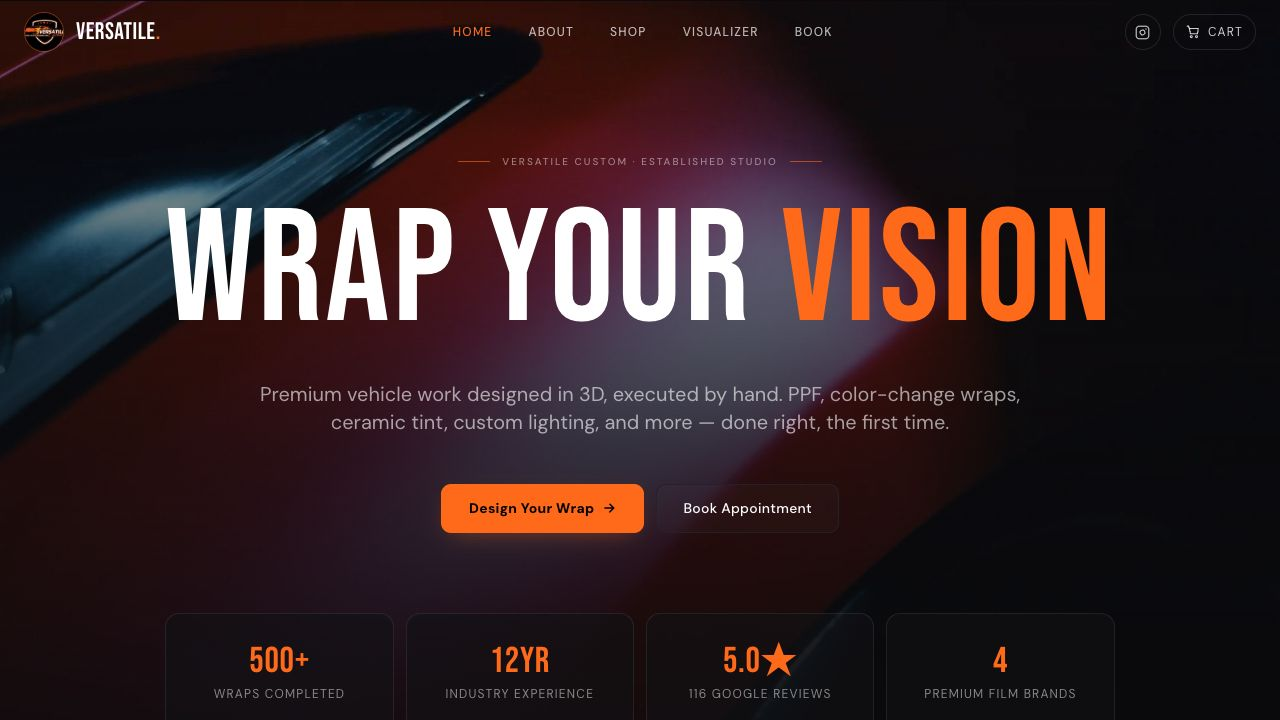
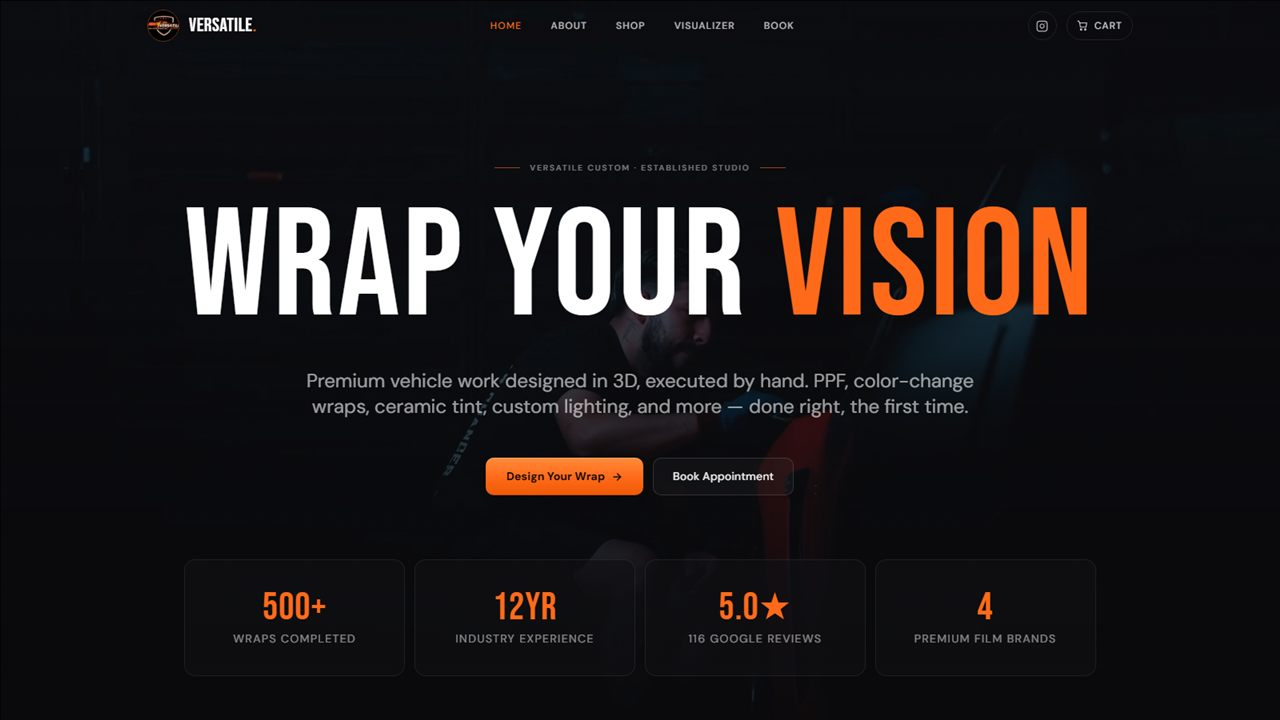
Real screenshots on the new cards; correct the WrapMe description
Captured each site with headless Chrome at 1600x900 and downscaled to
1280x720 JPEG - build-roldan alone went from 1.7 MB to 131 KB, so five raw
PNGs would have added several megabytes to the Work page.

WrapMe rewritten: the site presents a real-time 3D configurator with orbit
controls and six independently painted zones, so 'canvas overlay' undersold
it as a flat composite. Tech corrected to WebGL.

Also removes the duplicate Versatile Customs entry - it already existed.

diff --git a/src/data/projects.js b/src/data/projects.js
@@ -114,7 +114,7 @@ export const projects = [
       'Brand site and storefront for a custom build shop. Showcases services and a project gallery, and lets clients request tailored quotes in just a few clicks.',
     tech: ['JavaScript'],
     year: 2026,
-    image: null,
+    image: '/images/shots/versatile-customs.jpg',
     icon: 'wrench',
     url: 'https://versatile-customs.vercel.app',
   },
@@ -318,10 +318,10 @@ export const projects = [
     category: 'apps',
     badges: ['public', 'live'],
     description:
-      'Quoting engine for vehicle wrap shops. Specialists composite a wrap onto a customer photo with a canvas overlay - no AI, no guesswork - so the client sees the finished job before committing to a booking.',
-    tech: ['Next.js', 'Neon', 'Canvas'],
+      'Real-time 3D configurator for wrap and paint shops. Customers orbit their own car in the browser, try real films across six independently painted zones, and send the shop the exact build - rendered live in WebGL, no AI and no guesswork.',
+    tech: ['Next.js', 'WebGL', 'Neon'],
     year: 2026,
-    image: null,
+    image: '/images/shots/wrapme.jpg',
     icon: 'layers',
     url: 'https://wrapme.app',
   },
@@ -338,20 +338,6 @@ export const projects = [
     icon: 'activity',
     url: '/canary',
   },
-  {
-    key: 'versatile-customs',
-    title: 'Versatile Customs',
-    category: 'web',
-    badges: ['public', 'live'],
-    description:
-      'Site for a vehicle wrap shop. Showcases finished work, explains the wrap process, and routes enquiries to the shop, with a CMS so the team can add new builds without touching code.',
-    tech: ['Next.js', 'CMS'],
-    year: 2026,
-    image: null,
-    icon: 'wrench',
-    url: 'https://versatile-customs.vercel.app',
-  },
-  {
     key: 'build-roldan',
     title: 'Roldan Group',
     category: 'web',
@@ -360,7 +346,7 @@ export const projects = [
       'Site for a family exterior construction and remodelling business, built to turn homeowner interest into booked work. Includes Pool Vision, an AI feature that lets a visitor picture the finished result on their own property, plus a CMS for the team to run it themselves.',
     tech: ['Next.js', 'AI', 'CMS'],
     year: 2026,
-    image: null,
+    image: '/images/shots/build-roldan.jpg',
     icon: 'home',
     url: 'https://buildroldan.com',
   },
@@ -373,7 +359,7 @@ export const projects = [
       'Full redesign of a consumer-facing resort services site - rebuilt structure, clearer navigation, and a modern front end that reads properly on phones.',
     tech: ['JavaScript', 'Responsive'],
     year: 2026,
-    image: null,
+    image: '/images/shots/world-resort-rescue.jpg',
     icon: 'globe',
     url: 'https://worldresortrescue.com',
   },
@@ -386,7 +372,7 @@ export const projects = [
       'Redesign of a client-facing portal, rebuilt around a cleaner layout and faster load so returning visitors reach what they came for in fewer steps.',
     tech: ['React', 'Vite'],
     year: 2026,
-    image: null,
+    image: '/images/shots/alexandra-rossi.jpg',
     icon: 'globe',
     url: 'https://alexandrarossi.vercel.app/',
   },
